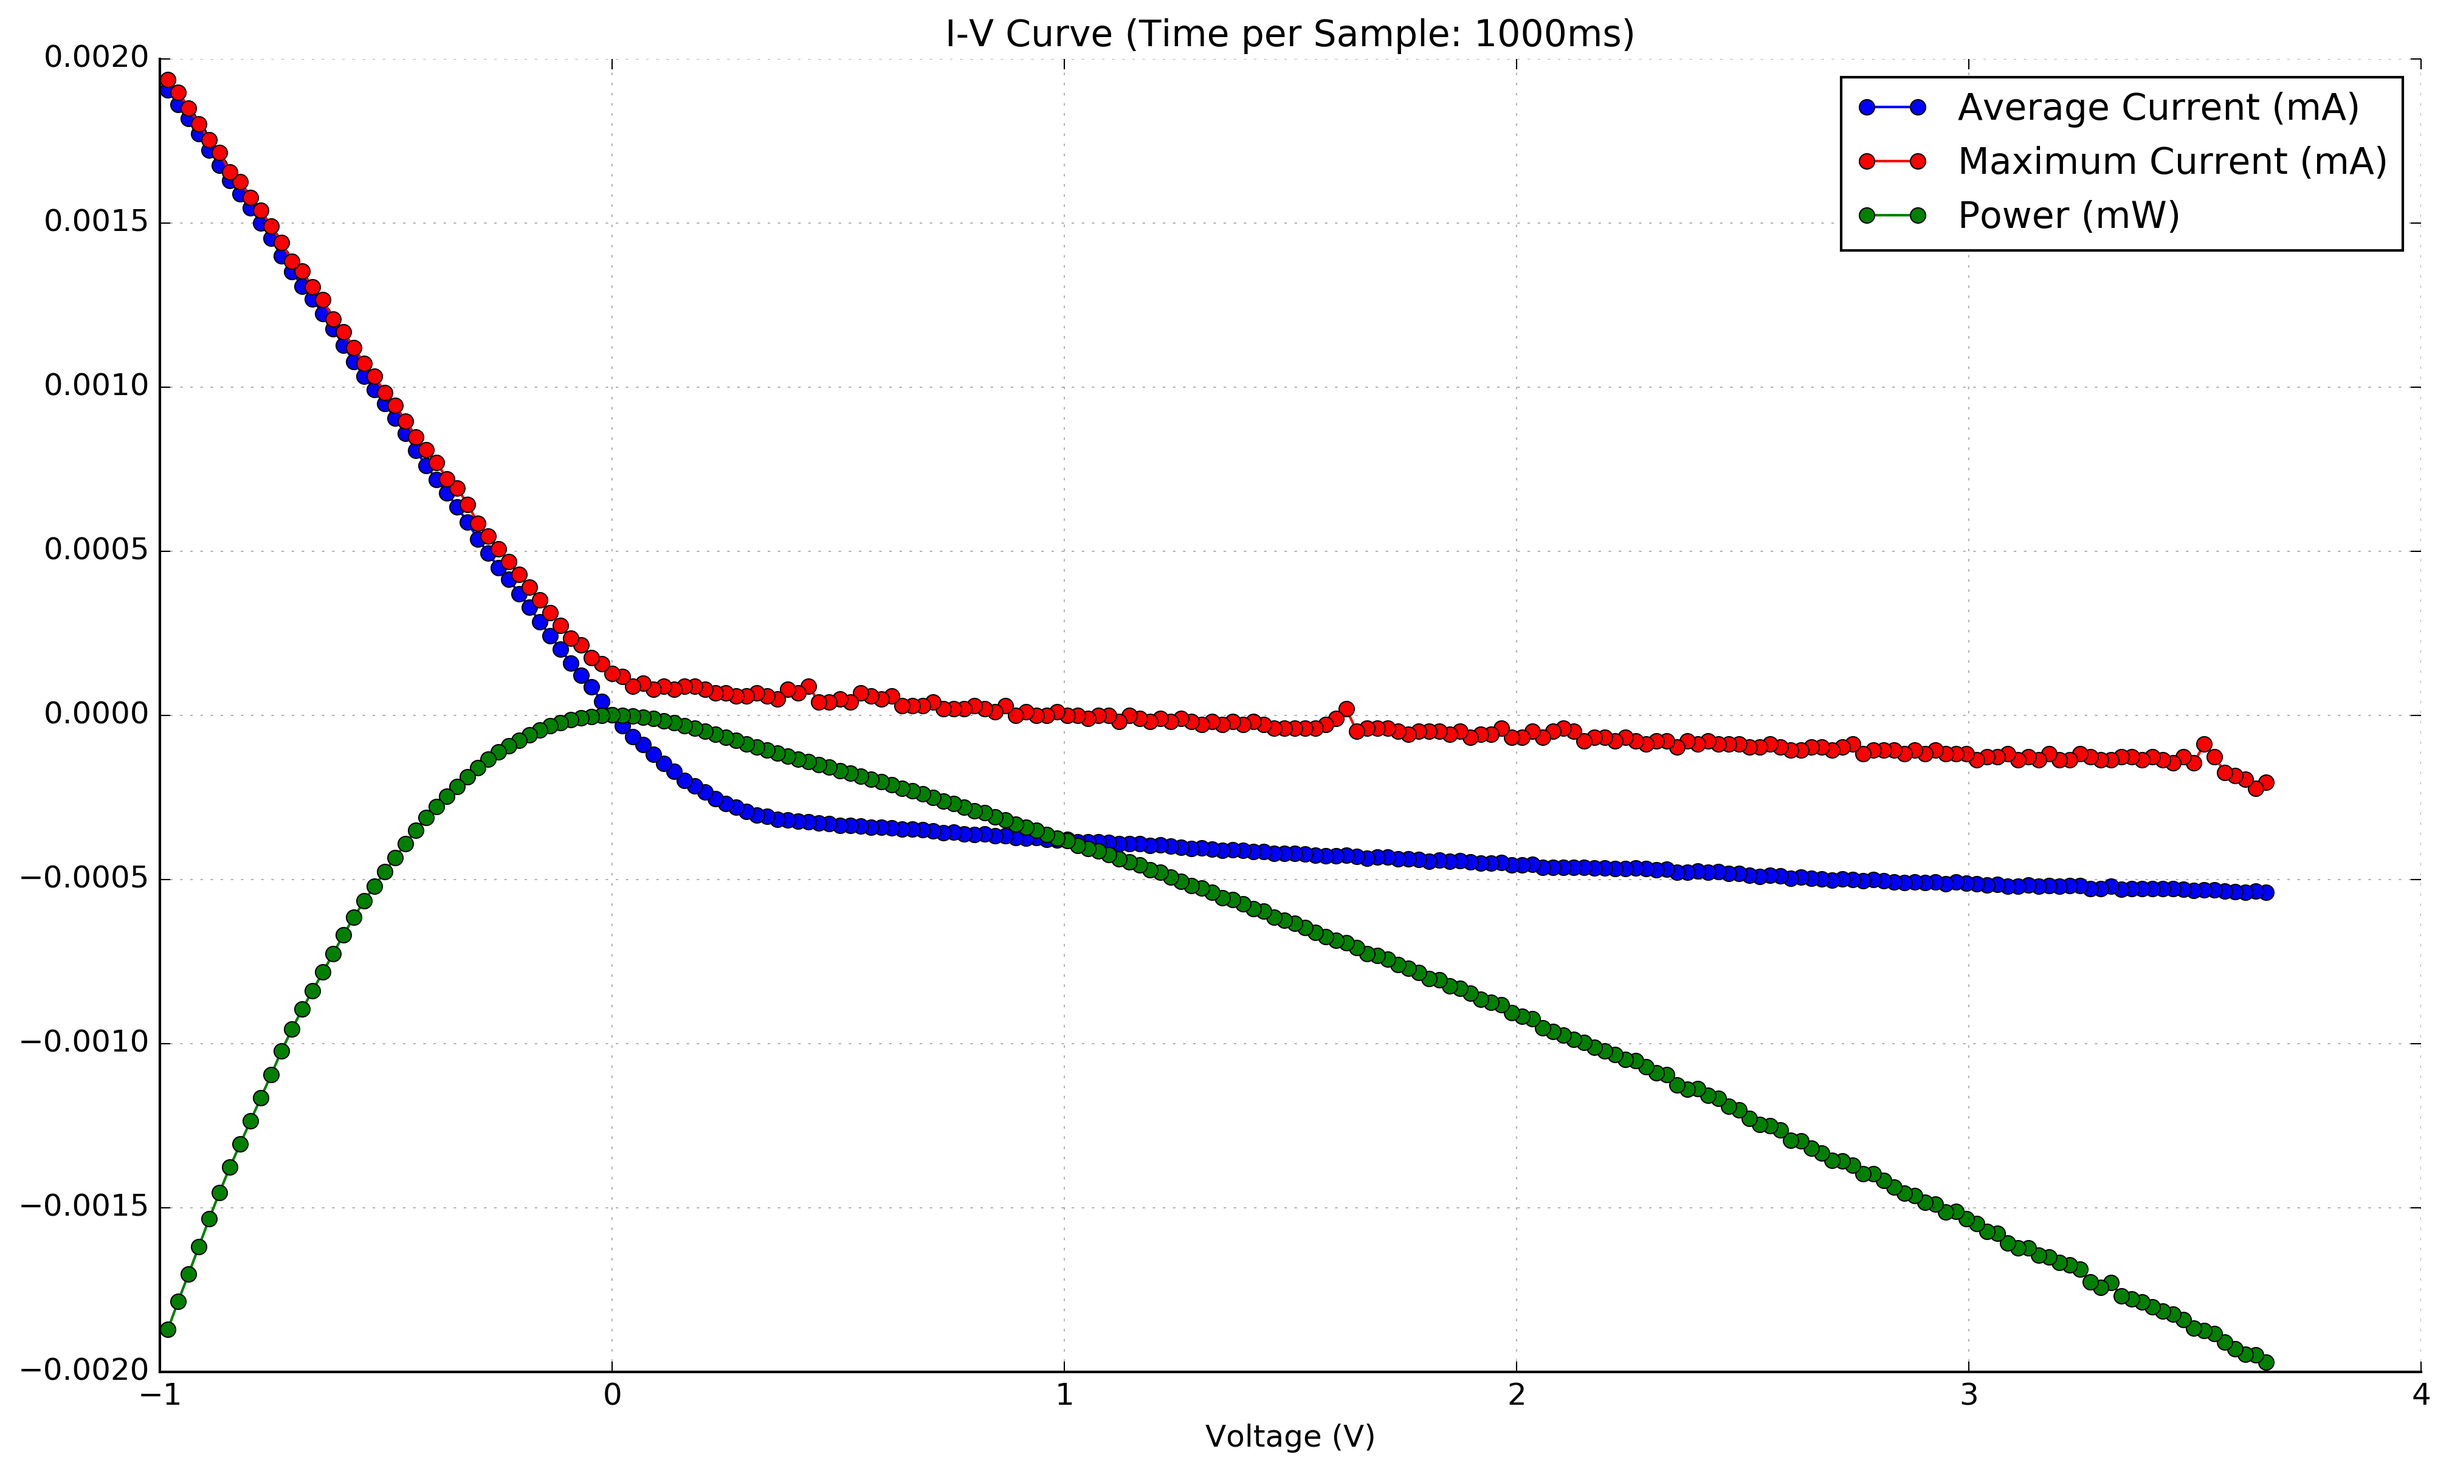
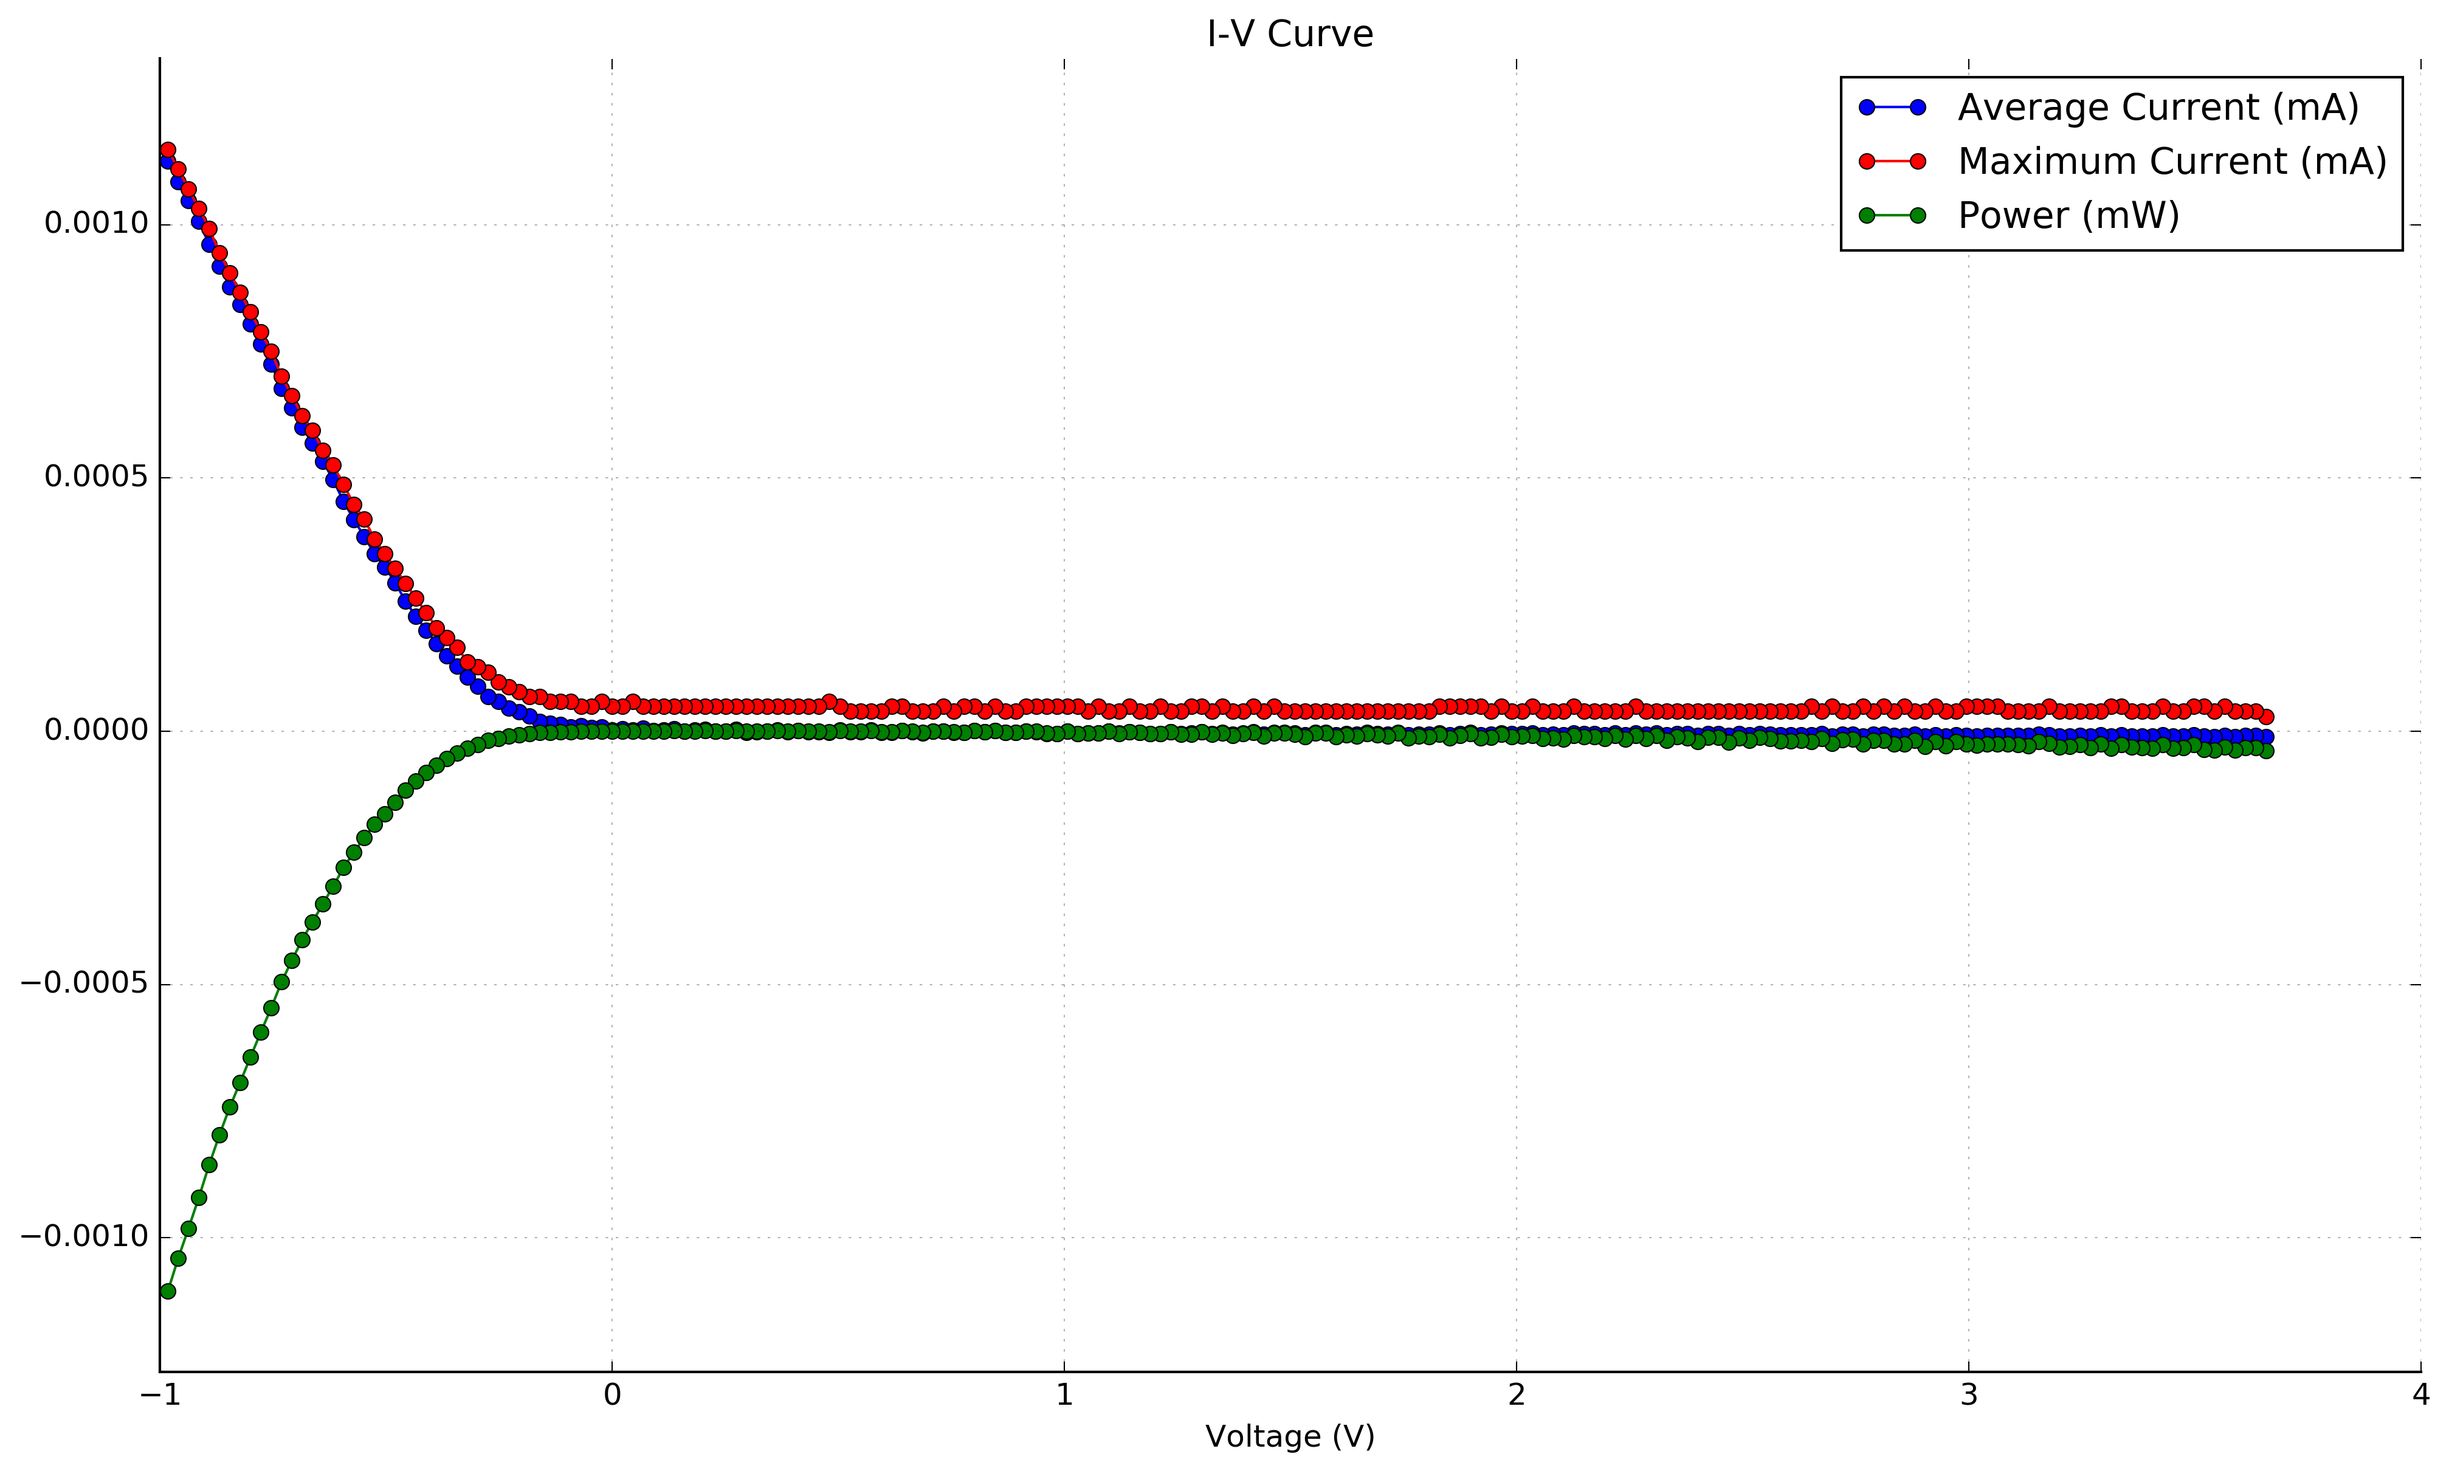
Updated code to reflect final state of the Monograph

diff --git a/graph_maker.py b/graph_maker.py
@@ -1,0 +1,105 @@
+#!/usr/bin/env python
+# -*- coding: utf-8 -*-
+
+#This program creates a .png graph by using the csv file that was created while doing the experiments. It uses the same min and max settings for all the graphs in order to allow a direct comparison. It can also make a graph comparing the power directly out of all the graphs.
+
+import matplotlib.pyplot as pyplot
+import csv
+import os
+
+#The file dimensions (serves more as a proportion)
+fileDimensions = [16, 9]
+#Sets the DPI for the document (DPI*dimensions is the actual size in pixels)
+fileDPI = 300
+#If set to true,   
+comparePower = False
+
+#Add the files that are going to be made into graphs.
+#files = ["graph_0", "graph_1 (wood floor)", "graph_2 (tapete)"]
+#names = {"graph_0":"Aislado", "graph_1 (wood floor)":"Madera", "graph_2 (tapete)":"Tapete"}
+
+if comparePower:
+    files = ["graph_isolated", "graph_1 (wood)", "graph_2 (ceramic)", "graph_3 (carpet)"]
+else:
+    files = ["graph_isolated", "graph_1 (wood)", "graph_2 (ceramic)", "graph_3 (carpet)", "graph_5 (pressure)"]
+
+#These are human friendly names for legends.
+names = {"graph_isolated":"Isolated", "graph_1 (wood)":"Wood", "graph_2 (ceramic)":"Ceramic", "graph_3 (carpet)":"Rug"}
+
+directory = os.path.expanduser("~/Documents/Colegio/Undécimo/Monografía/Datos/")
+
+data = {}
+dataMax = -1
+dataMin = 0
+
+for fileName in files:
+    data[fileName] = {"name": fileName, "voltage":[], "average":[], "max":[], "power":[]}
+    try: 
+        data[fileName]["nice_name"] = names[fileName]
+    except KeyError:
+        data[fileName]["nice_name"] = fileName
+
+    with open(directory + fileName + ".csv", "rb") as csvFile:
+        csvReader = csv.reader(csvFile)
+        for row in csvReader:
+            if (row[0] != "Voltage (V)"):
+                data[fileName]["voltage"].append(float(row[0]))
+                data[fileName]["average"].append(float(row[1]))
+                data[fileName]["max"].append(float(row[2]))
+                data[fileName]["power"].append(float(row[3]))
+
+    if not comparePower:
+        if (min(data[fileName]["average"]) <= dataMin):
+            dataMin = min(data[fileName]["average"])
+        if (max(data[fileName]["average"]) >= dataMax):
+            dataMax = max(data[fileName]["average"])
+
+        if (min(data[fileName]["max"]) <= dataMin):
+            dataMin = min(data[fileName]["max"])
+        if (max(data[fileName]["max"]) >= dataMax):
+            dataMax = max(data[fileName]["max"])
+
+    if (min(data[fileName]["power"]) <= dataMin):
+        dataMin = min(data[fileName]["power"])
+    if (max(data[fileName]["power"]) >= dataMax):
+        dataMax = max(data[fileName]["power"])
+
+dataMin *= 1.1
+dataMax *= 1.1
+
+if not os.path.exists(directory + "graphs"):
+    os.makedirs(directory + "graphs")
+
+fig, ax = pyplot.subplots(figsize=(fileDimensions[0], fileDimensions[1]))
+
+if comparePower:
+    for individualData in data:
+        ax.plot(data[individualData]["voltage"], data[individualData]["power"], marker='o', label=data[individualData]["nice_name"])
+        ax.title.set_text("I-V Curve")
+        ax.set_xlabel("Voltage (V)")
+        ax.set_ylabel("Power (mW)")
+        ax.spines['right'].set_color('none')
+        ax.spines['top'].set_color('none')
+        ax.grid(which='both', alpha=0.3)
+        #ax.set_ylim([dataMin, dataMax + 0.0005])
+        ax.legend(loc='lower right', frameon=True)
+
+    pyplot.savefig(directory + "graphs/power.png", bbox_inches='tight', dpi=fileDPI)
+
+else:
+    for individualData in data:
+        ax.clear()
+        ax.title.set_text("I-V Curve")
+        ax.set_xlabel("Voltage (V)")
+        ax.spines['right'].set_color('none')
+        ax.spines['top'].set_color('none')
+        ax.plot(data[individualData]["voltage"], data[individualData]["average"], color='b', marker='o', label="Average Current (mA)")
+        ax.plot(data[individualData]["voltage"], data[individualData]["max"], color='r', marker='o', label="Maximum Current (mA)")
+        ax.plot(data[individualData]["voltage"], data[individualData]["power"], color='g', marker='o', label="Power (mW)")
+        ax.legend(loc='upper right', frameon=True)
+        ax.grid(which='both', alpha=0.3)
+        ax.set_ylim([dataMin, dataMax])
+
+        pyplot.savefig(directory + "graphs/" + individualData + '.png', bbox_inches='tight', dpi=fileDPI)
+
+        print("Saved: " + individualData)

diff --git a/short_term_display.py b/short_term_display.py
@@ -1,16 +1,22 @@
+#!/usr/bin/env python
+# -*- coding: utf-8 -*-
+
+# This code sends a serial signal to a µC programmed with the ARDUINO program, receiving all the data continuosly, and plotting it accordingly. It also exports all the data to .csv for further analysis.
+
 import serial
 import os
 import math
 import matplotlib.pyplot as pyplot
 import time
+import csv
 
 voltage = 4.68
 resistorVoltage = voltage * (1005.0/(1005.0+273.0))
 resistance = 470000
-#For full resolution, it is better to use a combination of 3000ms and 20 steps per sample. More than that is overkill. For any tests, any above above and
+#For full resolution, it is better to use a combination of 4000ms and 20 steps per sample. More than that is overkill. For any tests, any above above and
 #below, respectively, are appropiate.
 #Time in ms
-timePerSample = 3000
+timePerSample = 4000
 #How many steps to add for each sample
 sampleStep = 20
 initialStep = sampleStep
@@ -22,9 +28,7 @@ windowDPI = 80
 #Sets the DPI for the document (DPI*dimensions is the actual size in pixels)
 fileDPI = 300
 #This is the directory where the image is saved
-directory = os.path.expanduser("~/Downloads/")
-
-print("Using the following settings:\nVoltage: " + str(voltage) + "V\nDivider Voltage: " + str(resistorVoltage) + "V\nCurrent Resistance: " + str(resistance) + " Ohms\nTime per sample: " + str(timePerSample) + "ms\nNumber of samples: " + str(4096/sampleStep) + "\nApproximate time of experiment: " + str(4096/sampleStep*(timePerSample+500)/1000) + "s\nInitial Voltage: " + str(resistorVoltage-(initialStep/4095.0*voltage)) + "V\nEnd Voltage: " + str(resistorVoltage-(endStep/4095.0*voltage)) + "V")
+directory = os.path.expanduser("~/Documents/Colegio/Undécimo/Monografía/Datos/")
 
 try:
     #Put the correct serial port in here
@@ -33,6 +37,8 @@ try:
 except serial.serialutil.SerialException:
     print("Port is closed. Maybe it isn't connected?")
     quit()
+
+print("Using the following settings:\nVoltage: " + str(voltage) + "V\nDivider Voltage: " + str(resistorVoltage) + "V\nCurrent Resistance: " + str(resistance) + " Ohms\nTime per sample: " + str(timePerSample) + "ms\nNumber of samples: " + str(4096/sampleStep) + "\nApproximate time of experiment: " + str(4096/sampleStep*(timePerSample+500)/1000) + "s\nInitial Voltage: " + str(resistorVoltage-(initialStep/4095.0*voltage)) + "V\nEnd Voltage: " + str(resistorVoltage-(endStep/4095.0*voltage)) + "V")
 
 pyplot.ion()
 fig, ax = pyplot.subplots(figsize=(fileDimensions[0], fileDimensions[1]), dpi=windowDPI)
@@ -88,6 +94,12 @@ for i in xrange(initialStep, endStep, sampleStep):
 
 ser.close()
 print("Program ended")
+
+with open(directory + "graph.csv", "wb") as csvFile:
+    csvWriter = csv.writer(csvFile)
+    csvWriter.writerow(["Voltage (V)", "Average Current (mA)", "Maximum Current (mA)", "Power (mW)"])
+    for row in zip(plotList[0], plotList[1], plotList[2], plotList[3]):
+        csvWriter.writerow(row)
 
 pyplot.ioff()
 pyplot.savefig(directory + "graph" + '.png', bbox_inches='tight', dpi=fileDPI)

diff --git a/README.md b/README.md
@@ -1,3 +1,11 @@
-This repository includes all the code used in my monograph, including some examples of what it produces. I also include the previous code that was produced, but that was deprecated due to a shift in the objectives of the project.
+This repository contains all of the code used on my Monograph project. The "short_term_display.py" code gathers and displays the data live, while the "graph_maker.py" makes graphs according to the .csv files produced by the former program. 
 
+The ARDUINO folder contains the code used in the microcontroller (ATMEGA328p). 
+
+The Examples folder contains a few examples of the output of the programs. 
+
+The Previous Work folder contains all the deprecated code that was phased out due to the changing nature of the project.
+
+
+Thanks
 Juan Pablo Arenas
